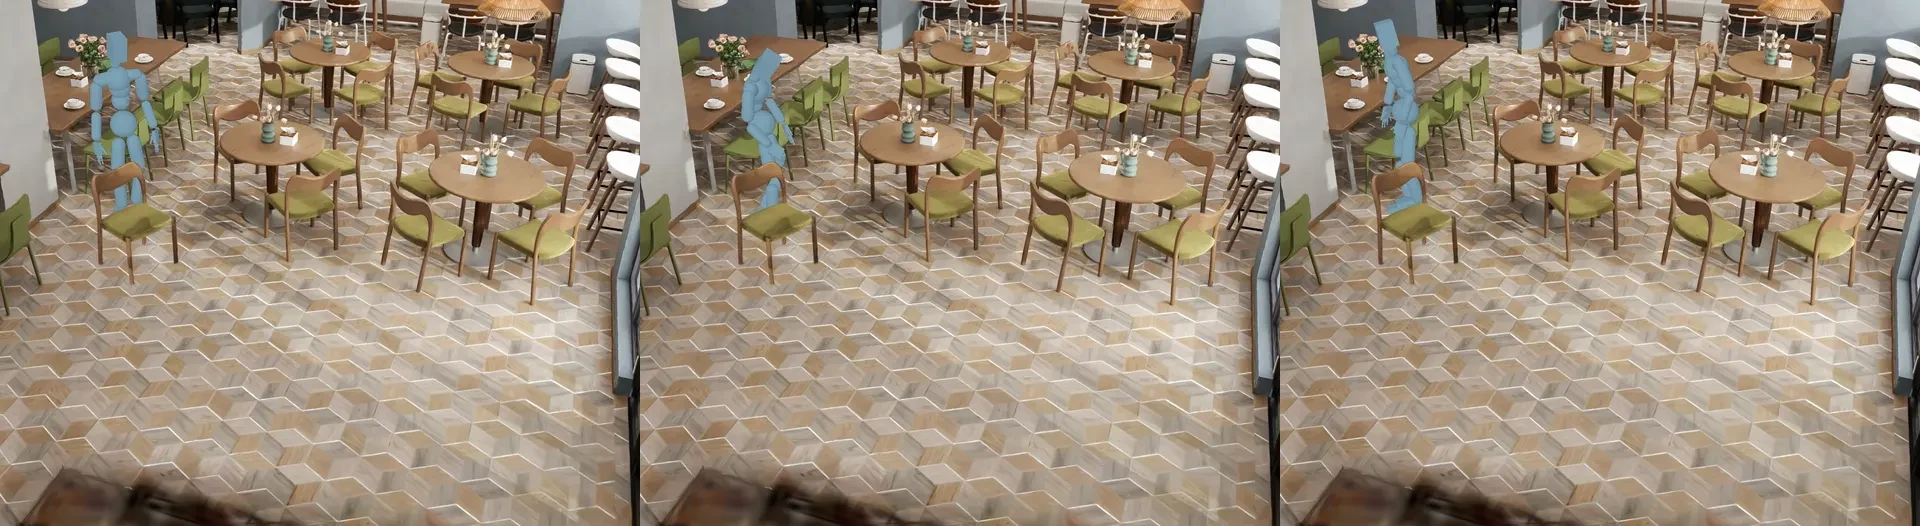
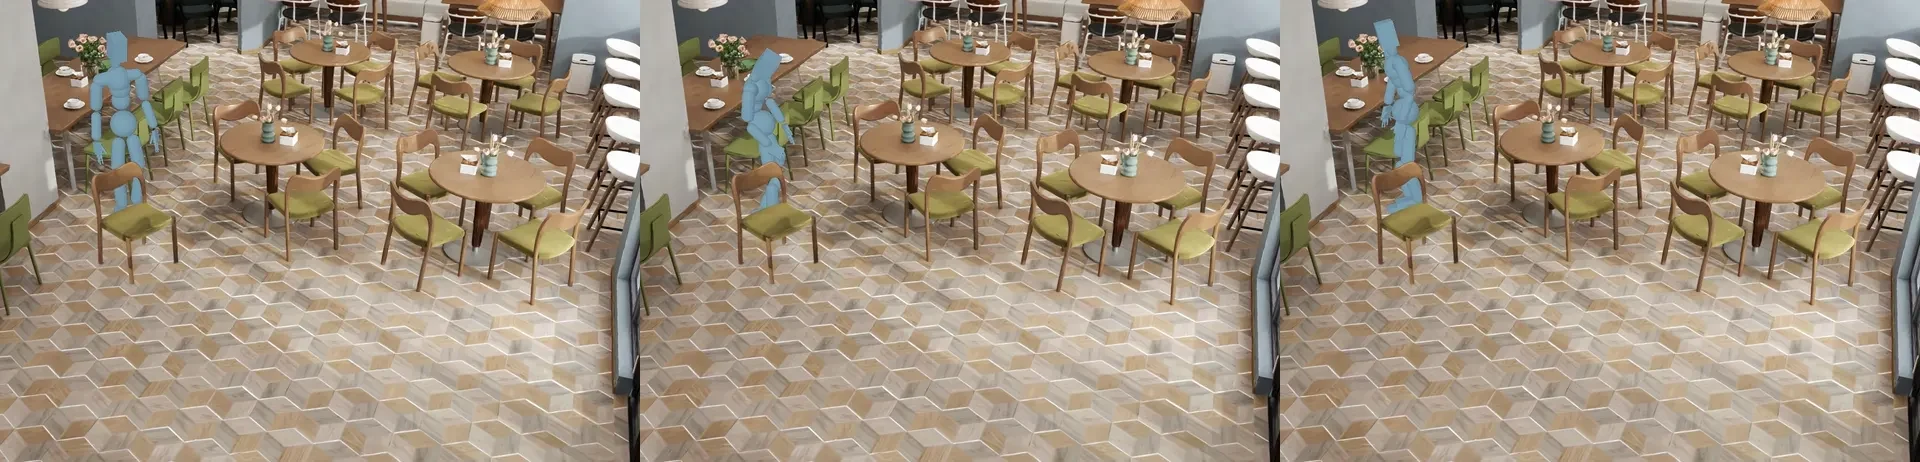
Use unframed media layouts and crop chair comparison foreground

diff --git a/style.css b/style.css
@@ -18,21 +18,21 @@ h1 { margin: 0; font-weight: 600; font-optical-sizing: auto; }
 .teaser { width: 100%; }
 .comparisons { max-width: 1112px; margin: 88px auto 16px; }
 .comparisons > h2 { margin: 0 8px 28px; font-size: 2rem; font-weight: 600; letter-spacing: -.045em; line-height: 1.2; }
-.comparison-row { margin: 0 0 28px; padding: 8px 12px 0; border: 1px solid #eceef2; border-radius: 24px; overflow: hidden; background: linear-gradient(145deg, #fff, #fafbfd); box-shadow: 0 12px 32px -24px #33466624; }
+.comparison-row { margin: 0 0 48px; padding: 0; border: 0; border-radius: 0; background: transparent; box-shadow: none; }
 .comparison-scroll { overflow-x: auto; overscroll-behavior-x: contain; scrollbar-width: thin; scrollbar-color: #bbc5d2 transparent; }
 .comparison-scroll:focus-visible { outline: 2px solid #0071e3a0; outline-offset: -2px; border-radius: 12px; }
-.comparison-labels { display: grid; grid-template-columns: repeat(3, minmax(0, 1fr)); padding: 14px 0 17px; text-align: center; font-size: .875rem; font-weight: 550; color: #495360; }
+.comparison-labels { display: grid; grid-template-columns: repeat(3, minmax(0, 1fr)); padding: 12px 0 0; text-align: center; font-size: .9375rem; font-weight: 550; color: #495360; }
 .comparison-labels small { font-size: inherit; font-weight: 400; color: #727b87; }
-.comparison-visual { position: relative; overflow: hidden; border-radius: 14px; user-select: none; -webkit-user-select: none; }
+.comparison-visual { position: relative; overflow: hidden; border-radius: 0; user-select: none; -webkit-user-select: none; }
 .comparison-visual img { display: block; width: 100%; height: auto; pointer-events: none; user-select: none; -webkit-user-select: none; -webkit-user-drag: none; }
 .comparison-visual::after { content: ''; position: absolute; inset: 0; pointer-events: none; background: linear-gradient(to right, transparent calc(100% / 3 - 2px), #fff calc(100% / 3 - 2px), #fff calc(100% / 3 + 2px), transparent calc(100% / 3 + 2px), transparent calc(200% / 3 - 2px), #fff calc(200% / 3 - 2px), #fff calc(200% / 3 + 2px), transparent calc(200% / 3 + 2px)); }
-.comparison-row figcaption { padding: 20px 18px 23px; color: #62626a; font-size: .9375rem; line-height: 1.7; text-align: center; }
+.comparison-row figcaption { padding: 12px 0 0; color: #62626a; font-size: .9375rem; line-height: 1.7; text-align: center; }
 @media (max-width: 700px) {
   .comparisons { margin-top: 56px; }
   .comparisons > h2 { margin: 0 4px 20px; font-size: 1.75rem; }
-  .comparison-row { padding: 6px 8px 0; border-radius: 20px; }
+  .comparison-row { margin-bottom: 36px; }
   .comparison-strip { min-width: 840px; }
-  .comparison-row figcaption { padding: 16px 12px 20px; text-align: left; }
+  .comparison-row figcaption { padding: 12px 0 0; text-align: center; }
 }
 .video-showcase { margin-top: 88px; }
 .video-group + .video-group { margin-top: 64px; }
@@ -40,14 +40,14 @@ h1 { margin: 0; font-weight: 600; font-optical-sizing: auto; }
 .video-grid { display: grid; gap: 24px; align-items: stretch; }
 .video-grid.three { grid-template-columns: repeat(3, minmax(0, 1fr)); }
 .video-grid.two { grid-template-columns: repeat(2, minmax(0, 1fr)); }
-.video-card { min-width: 0; margin: 0; overflow: hidden; border-radius: 24px; border: 1px solid #eceef2; background: linear-gradient(145deg, #fff, #fafbfd); box-shadow: 0 12px 32px -24px #33466630; }
+.video-card { min-width: 0; margin: 0; border-radius: 0; border: 0; background: transparent; box-shadow: none; }
 .video-player { position: relative; }
 .video-player video { display: block; width: 100%; aspect-ratio: 3 / 2; object-fit: contain; background: #f5f5f7; }
 .wide .video-player video { aspect-ratio: 2 / 1; }
 .physics .video-player video { aspect-ratio: 4 / 3; }
-.video-controls { display: flex; align-items: center; gap: 9px; height: 52px; padding: 8px 12px; background: linear-gradient(145deg, #ffffffed, #eef2f7b3); border-top: 1px solid #fff; box-shadow: inset 0 1px 0 #fff; }
+.video-controls { display: flex; align-items: center; gap: 9px; width: calc(100% - 24px); max-width: 480px; height: 36px; margin: 10px auto 0; padding: 2px 0; background: transparent; border: 0; box-shadow: none; }
 .video-controls[hidden], .video-error[hidden] { display: none; }
-.video-controls button { position: relative; flex-shrink: 0; display: grid; place-items: center; width: 32px; height: 32px; padding: 0; border: 1px solid #ffffffd9; border-radius: 50%; color: #44556a; background: #ffffff80; box-shadow: inset 0 1px 1px #fff, inset 0 -1px 2px #74839926, 0 2px 5px #24354e12; }
+.video-controls button { position: relative; flex-shrink: 0; display: grid; place-items: center; width: 28px; height: 28px; padding: 0; border: 1px solid #ffffffd9; border-radius: 50%; color: #44556a; background: #ffffff80; box-shadow: inset 0 1px 1px #fff, inset 0 -1px 2px #74839926, 0 2px 5px #24354e12; }
 .video-controls button:hover { background: #ffffff26; box-shadow: inset 0 1px 1px #fff, inset 0 -1px 2px #74839952, 0 3px 8px #24354e26; }
 .video-controls button:active { transform: scale(.92); }
 .video-controls svg { width: 15px; height: 15px; }
@@ -72,26 +72,26 @@ h1 { margin: 0; font-weight: 600; font-optical-sizing: auto; }
   .video-timeline.is-dragging .timeline-thumb { width: 38px; height: 24px; }
 }
 .video-time { flex-shrink: 0; font-size: .625rem; font-variant-numeric: tabular-nums; color: #626b78; white-space: nowrap; }
-.video-card figcaption { padding: 22px 24px 26px; }
+.video-card figcaption { padding: 12px 0 0; text-align: center; }
 .video-card figcaption p { margin: 0; color: #62626a; font-size: .9375rem; line-height: 1.7; }
 .video-error { margin: 0; padding: 10px 18px; font-size: .8125rem; color: #62626a; }
 .video-error a { color: #28659e; }
 .video-player:fullscreen { width: 100%; height: 100%; display: flex; flex-direction: column; background: #121416; }
 .video-player:fullscreen video { flex: 1; min-height: 0; height: calc(100% - 60px); aspect-ratio: auto; object-fit: contain; background: #121416; }
-.video-player:fullscreen .video-controls { flex-shrink: 0; height: 60px; padding-inline: max(20px, calc((100vw - 1000px) / 2)); }
+.video-player:fullscreen .video-controls { flex-shrink: 0; width: 100%; max-width: none; height: 60px; margin: 0; padding-inline: max(20px, calc((100vw - 1000px) / 2)); background: #f5f7fa; }
 @media (max-width: 1000px) and (min-width: 701px) {
   .video-grid { gap: 14px; }
-  .video-controls { gap: 5px; padding-inline: 6px; }
+  .video-controls { gap: 5px; width: calc(100% - 12px); }
   .three .video-time { display: none; }
-  .video-card figcaption { padding: 18px; }
+  .video-card figcaption { padding-top: 12px; }
 }
 @media (max-width: 700px) {
   .video-showcase { margin-top: 56px; }
   .video-group + .video-group { margin-top: 44px; }
   .video-group > h3 { margin: 0 4px 18px; font-size: 1.1875rem; }
   .video-grid.three, .video-grid.two { grid-template-columns: minmax(0, 1fr); }
-  .video-card { border-radius: 20px; }
-  .video-card figcaption { padding: 18px 20px 22px; }
+  .video-card { border-radius: 0; }
+  .video-card figcaption { padding: 10px 0 0; }
 }
 @media (prefers-reduced-motion: reduce) {
   .video-toggle svg { transition: none; }

diff --git a/index.html b/index.html
@@ -8,7 +8,7 @@
   <meta name="referrer" content="no-referrer">
   <title>World2HOSI: A Multi-Expert Harness for Long-Horizon Human-Object-Scene Interaction Generation</title>
   <link rel="icon" href="favicon.svg" type="image/svg+xml">
-  <link rel="stylesheet" href="style.css?v=18">
+  <link rel="stylesheet" href="style.css?v=19">
   <script type="importmap">{"imports":{"three":"./vendor/three.module.js","three/addons/postprocessing/Pass.js":"./vendor/Pass.js","@sparkjsdev/spark":"./vendor/spark.module.js"}}</script>
 </head>
 <body>
@@ -188,8 +188,8 @@
       <figure class="comparison-row" aria-describedby="compare-chair-task">
         <div class="comparison-scroll" tabindex="0" aria-label="Move the chair, put it down, and sit on it. Methods from left to right: InfBaGel, HOSIG, World2HOSI.">
           <div class="comparison-strip">
+            <div class="comparison-visual"><picture><source media="(prefers-reduced-motion: reduce)" srcset="assets/comparisons/chair-poster.webp?v=2"><img src="assets/comparisons/chair.webp?v=2" width="1920" height="462" loading="lazy" decoding="async" draggable="false" alt="Side-by-side animated comparison of InfBaGel, HOSIG and World2HOSI. Move the chair, put it down, and sit on it."></picture></div>
             <div class="comparison-labels" aria-hidden="true"><span>InfBaGel</span><span>HOSIG</span><span>World2HOSI <small>(Ours)</small></span></div>
-            <div class="comparison-visual"><picture><source media="(prefers-reduced-motion: reduce)" srcset="assets/comparisons/chair-poster.webp"><img src="assets/comparisons/chair.webp" width="1920" height="526" loading="lazy" decoding="async" draggable="false" alt="Side-by-side animated comparison of InfBaGel, HOSIG and World2HOSI. Move the chair, put it down, and sit on it."></picture></div>
           </div>
         </div>
         <figcaption id="compare-chair-task">Move the chair, put it down, and sit on it.</figcaption>
@@ -197,8 +197,8 @@
       <figure class="comparison-row" aria-describedby="compare-box-task">
         <div class="comparison-scroll" tabindex="0" aria-label="Pick up the box, carry it across the café, and put it down. Methods from left to right: InfBaGel, HOSIG, World2HOSI.">
           <div class="comparison-strip">
-            <div class="comparison-labels" aria-hidden="true"><span>InfBaGel</span><span>HOSIG</span><span>World2HOSI <small>(Ours)</small></span></div>
             <div class="comparison-visual"><picture><source media="(prefers-reduced-motion: reduce)" srcset="assets/comparisons/box-poster.webp"><img src="assets/comparisons/box.webp" width="1920" height="244" loading="lazy" decoding="async" draggable="false" alt="Side-by-side animated comparison of InfBaGel, HOSIG and World2HOSI. Pick up the box, carry it across the café, and put it down."></picture></div>
+            <div class="comparison-labels" aria-hidden="true"><span>InfBaGel</span><span>HOSIG</span><span>World2HOSI <small>(Ours)</small></span></div>
           </div>
         </div>
         <figcaption id="compare-box-task">Pick up the box, carry it across the café, and put it down.</figcaption>
@@ -206,8 +206,8 @@
       <figure class="comparison-row" aria-describedby="compare-bin-task">
         <div class="comparison-scroll" tabindex="0" aria-label="Pick up the trash bin, carry it around the tables, and put it down. Methods from left to right: InfBaGel, HOSIG, World2HOSI.">
           <div class="comparison-strip">
-            <div class="comparison-labels" aria-hidden="true"><span>InfBaGel</span><span>HOSIG</span><span>World2HOSI <small>(Ours)</small></span></div>
             <div class="comparison-visual"><picture><source media="(prefers-reduced-motion: reduce)" srcset="assets/comparisons/bin-poster.webp"><img src="assets/comparisons/bin.webp" width="1920" height="500" loading="lazy" decoding="async" draggable="false" alt="Side-by-side animated comparison of InfBaGel, HOSIG and World2HOSI. Pick up the trash bin, carry it around the tables, and put it down."></picture></div>
+            <div class="comparison-labels" aria-hidden="true"><span>InfBaGel</span><span>HOSIG</span><span>World2HOSI <small>(Ours)</small></span></div>
           </div>
         </div>
         <figcaption id="compare-bin-task">Pick up the trash bin, carry it around the tables, and put it down.</figcaption>
